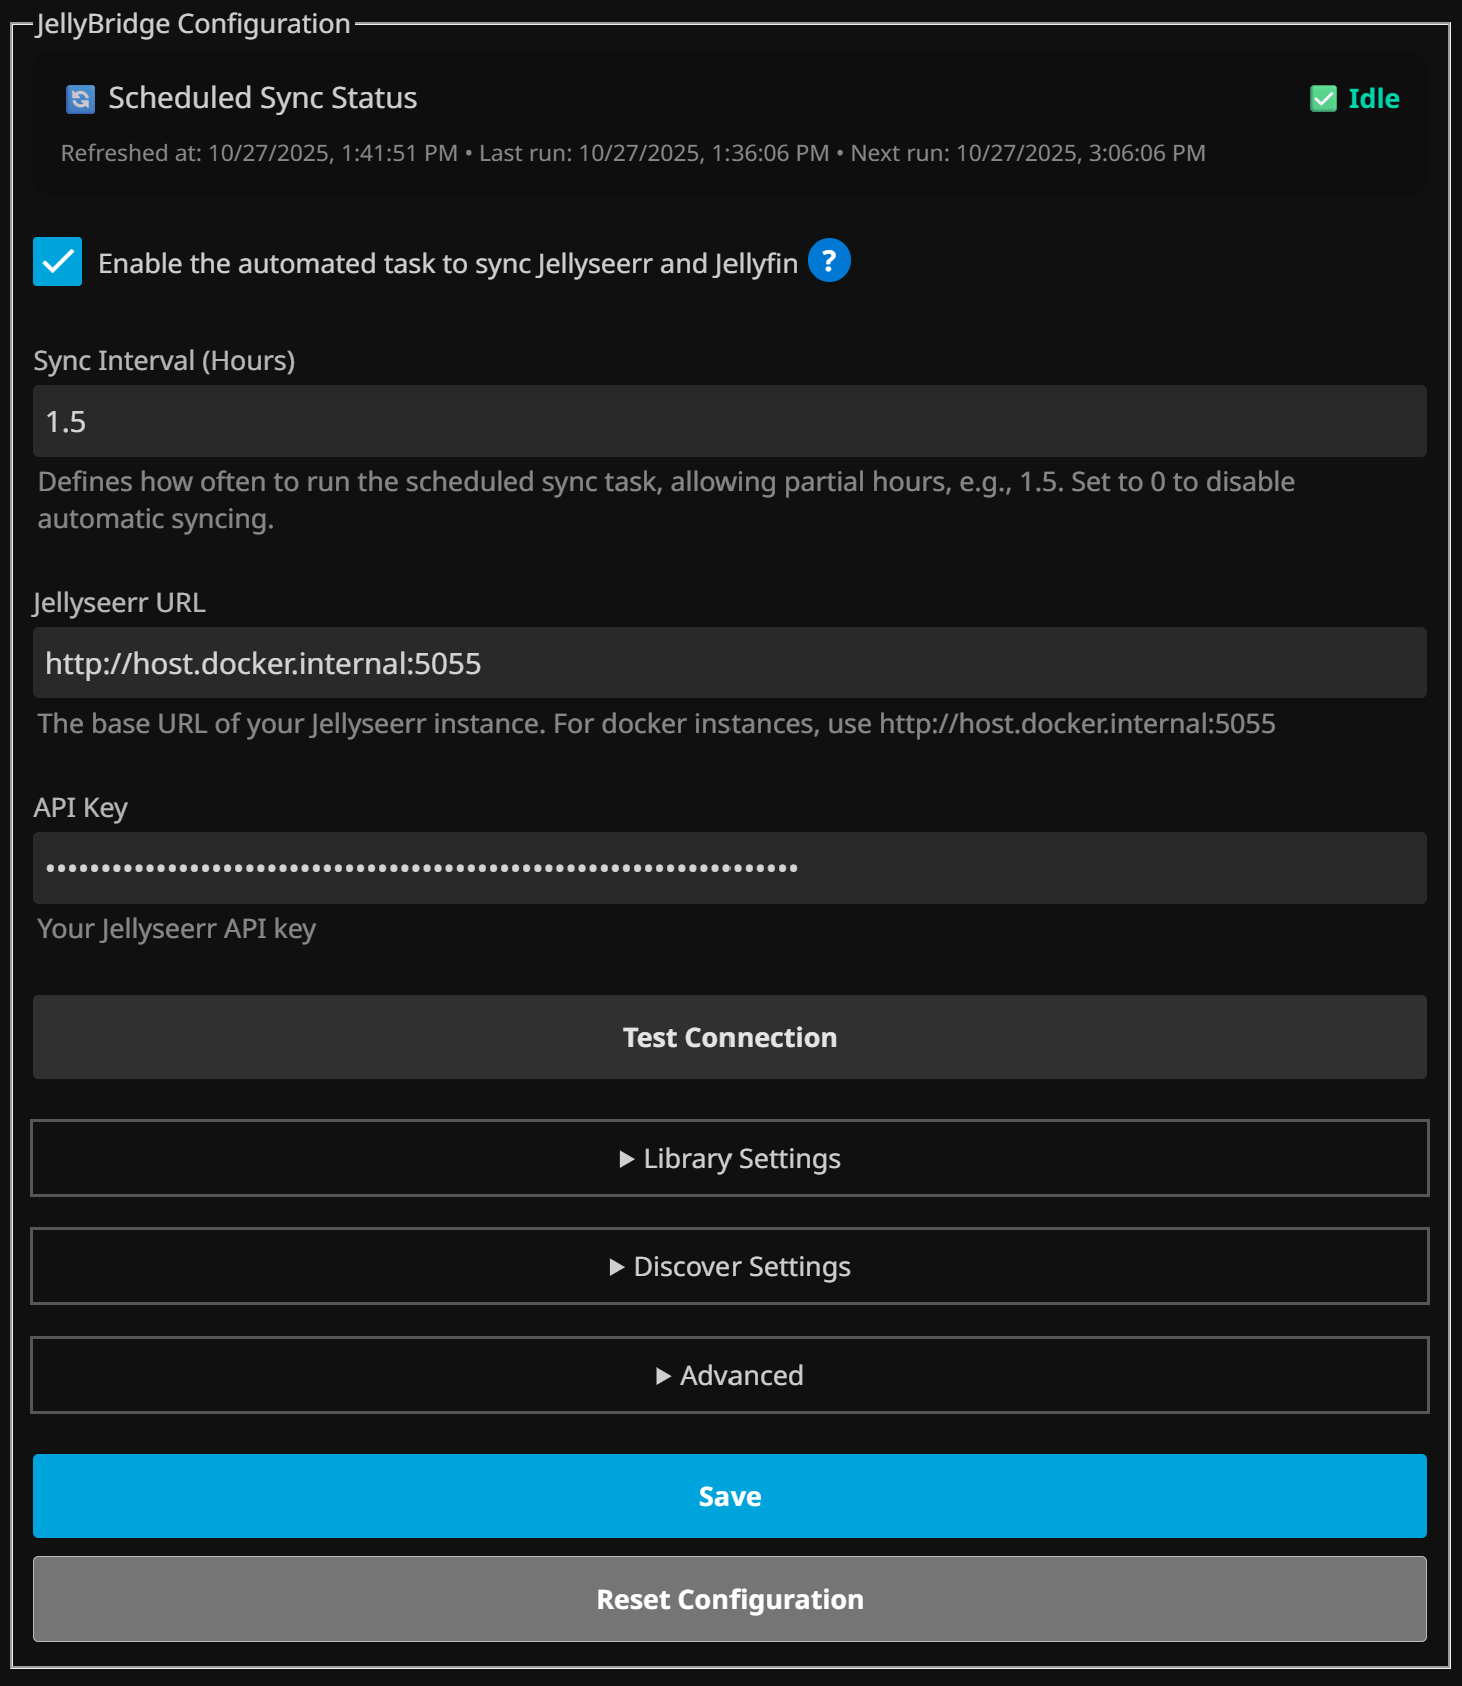
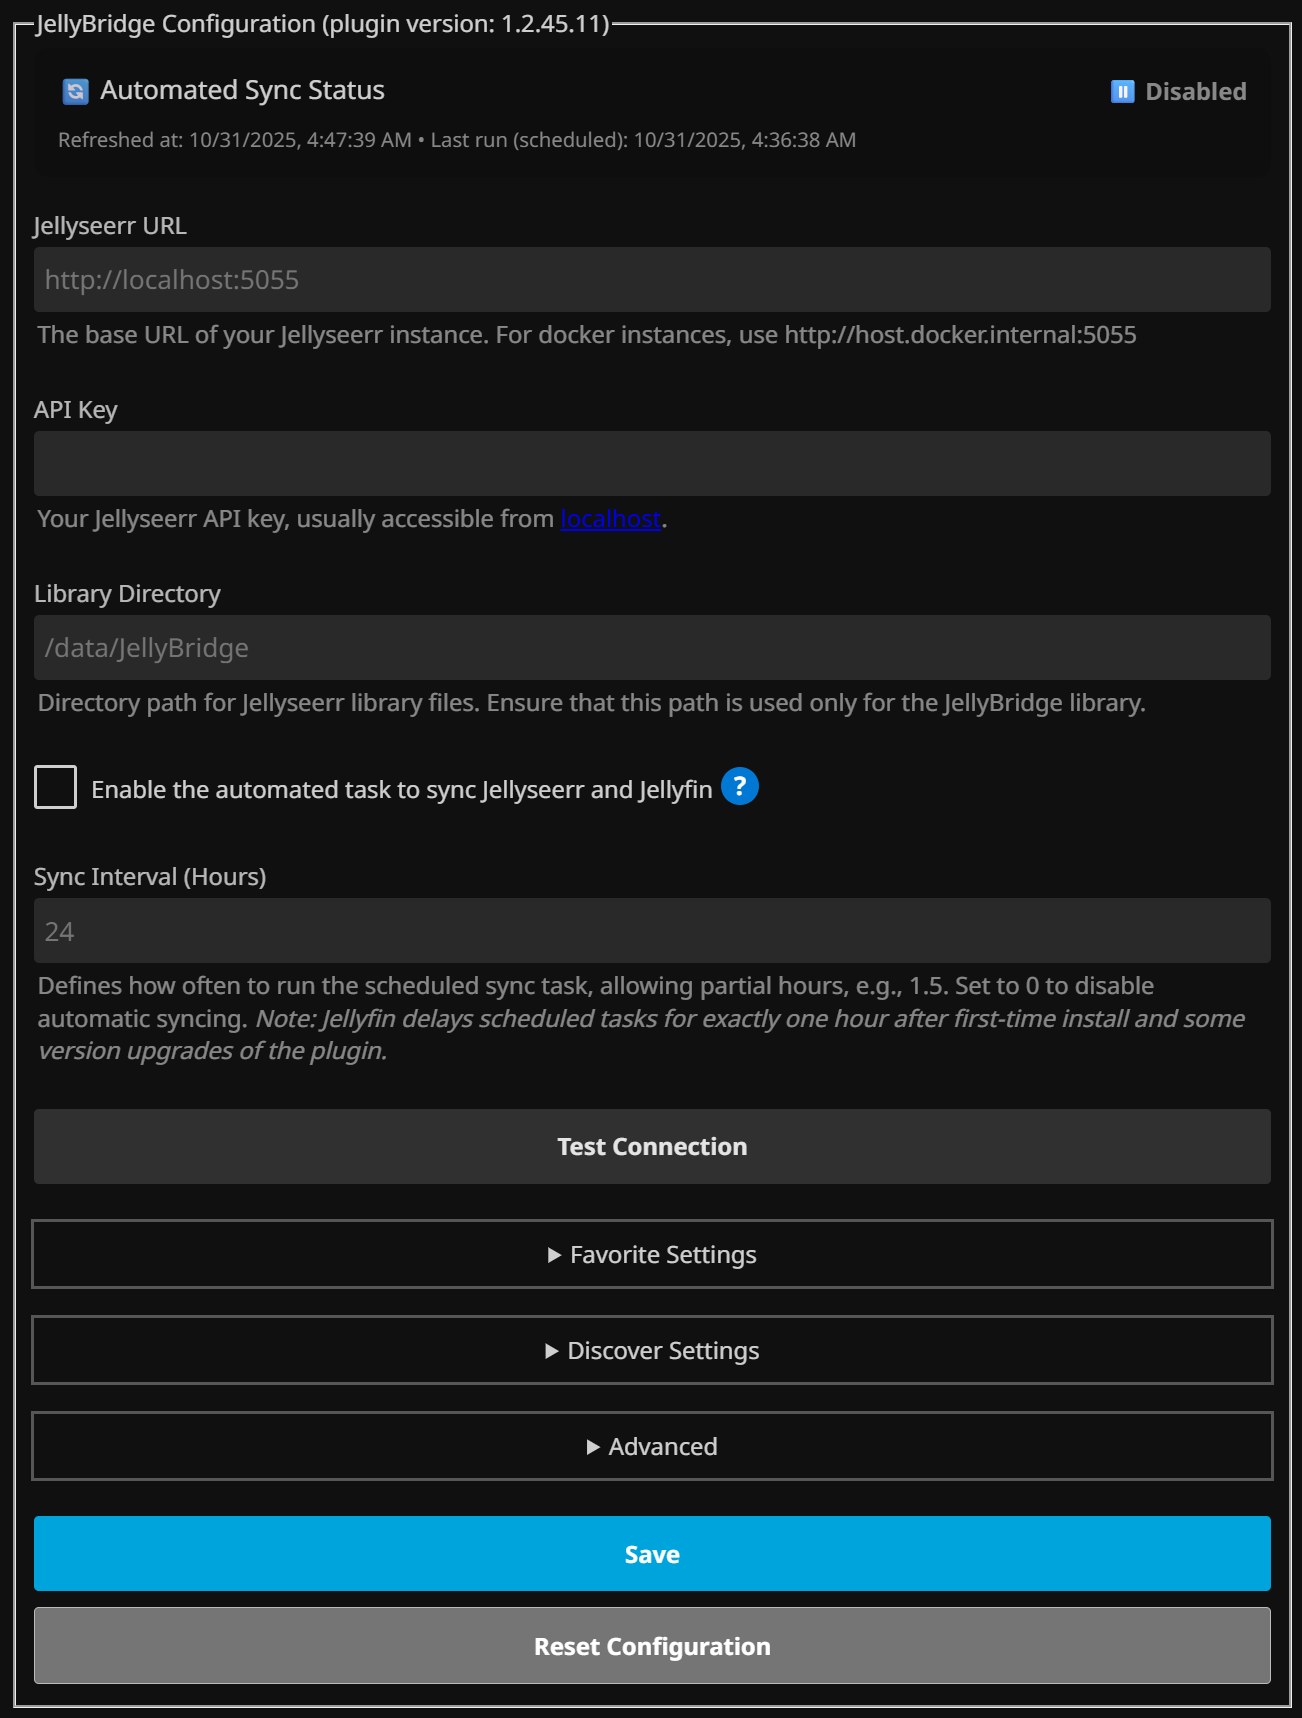
Release v1.2.46 - UI: Rename Library→Favorite Settings, moved Library Directory to General, placed Enable Plugin and Sync Interval above Test Connection, disabled Sync Interval and Auto-sync when plugin disabled. Reset: restore default networks on reset; Backend: accept NetworkMap=null to reset. Doc

diff --git a/src/Jellyfin.Plugin.JellyBridge/Controllers/RouteController.cs b/src/Jellyfin.Plugin.JellyBridge/Controllers/RouteController.cs
@@ -116,18 +116,26 @@ namespace Jellyfin.Plugin.JellyBridge.Controllers
                     SetJsonValue<bool?>(configData, nameof(config.EnableStartupSync), config);
                     SetJsonValue<bool?>(configData, nameof(config.EnableDebugLogging), config);
                     SetJsonValue<string>(configData, nameof(config.Region), config);
-					// Handle NetworkMap as array of JellyseerrNetwork objects
-					if (configData.TryGetProperty(nameof(config.NetworkMap), out var networkMapElement) &&
-						networkMapElement.ValueKind == JsonValueKind.Array)
+					// Handle NetworkMap: support explicit null (reset), or array of JellyseerrNetwork objects
+					if (configData.TryGetProperty(nameof(config.NetworkMap), out var networkMapElement))
 					{
-						try
+						if (networkMapElement.ValueKind == JsonValueKind.Null)
 						{
-							config.NetworkMap = networkMapElement.Deserialize<List<JellyseerrNetwork>>() ?? new List<JellyseerrNetwork>();
-							_logger.LogTrace("Successfully deserialized NetworkMap as array with {Count} networks", config.NetworkMap.Count);
+							// Explicit reset: set to null so defaults are applied on next GET/UI load
+							config.NetworkMap = null;
+							_logger.LogInformation("NetworkMap explicitly set to null by client (reset to defaults on next load).");
 						}
-						catch (Exception ex)
+						else if (networkMapElement.ValueKind == JsonValueKind.Array)
 						{
-							_logger.LogError(ex, "Failed to deserialize NetworkMap as array. JSON: {Json}", networkMapElement.GetRawText());
+							try
+							{
+								config.NetworkMap = networkMapElement.Deserialize<List<JellyseerrNetwork>>() ?? new List<JellyseerrNetwork>();
+								_logger.LogTrace("Successfully deserialized NetworkMap as array with {Count} networks", config.NetworkMap.Count);
+							}
+							catch (Exception ex)
+							{
+								_logger.LogError(ex, "Failed to deserialize NetworkMap as array. JSON: {Json}", networkMapElement.GetRawText());
+							}
 						}
 					}
 					else

diff --git a/README.md b/README.md
@@ -136,7 +136,7 @@ The plugin provides a comprehensive web-based configuration interface with the f
 
 ### 📁 Favorite Settings
 
-![Jellyfin Favorites](Screenshots/Favorites.png)
+![Favorite Settings](Screenshots/Favorite.png)
 
 - **Manage Jellyseerr Library**: After syncing, refreshes libraries containing the Library Directory path (partial refresh when adding/updating; full refresh when items are deleted by Jellyseerr actions)
 - **Exclude from Main Libraries**: Excludes streaming movies/series that appear in Jellyfin libraries via .ignore files
